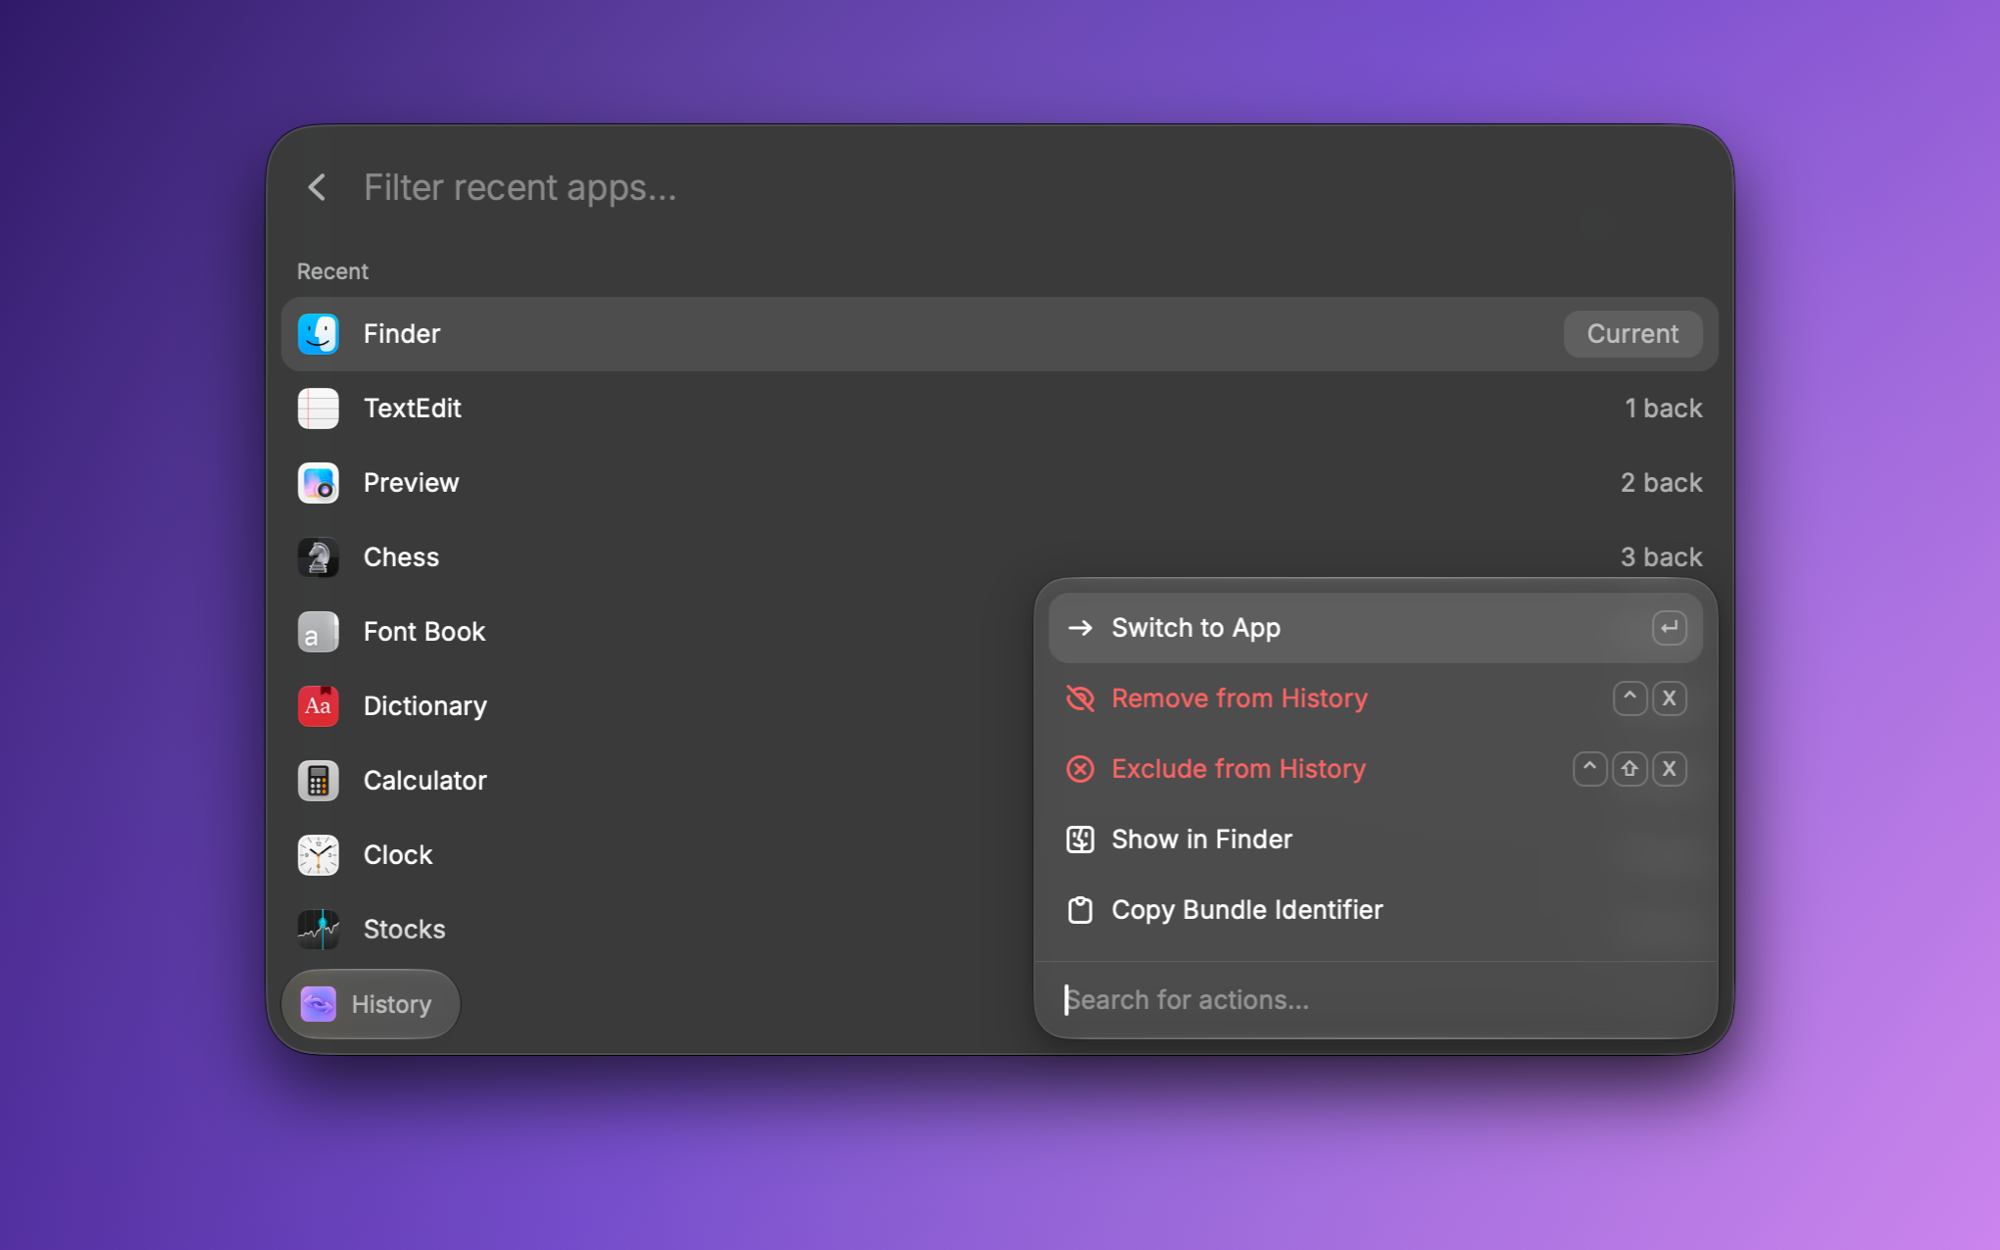
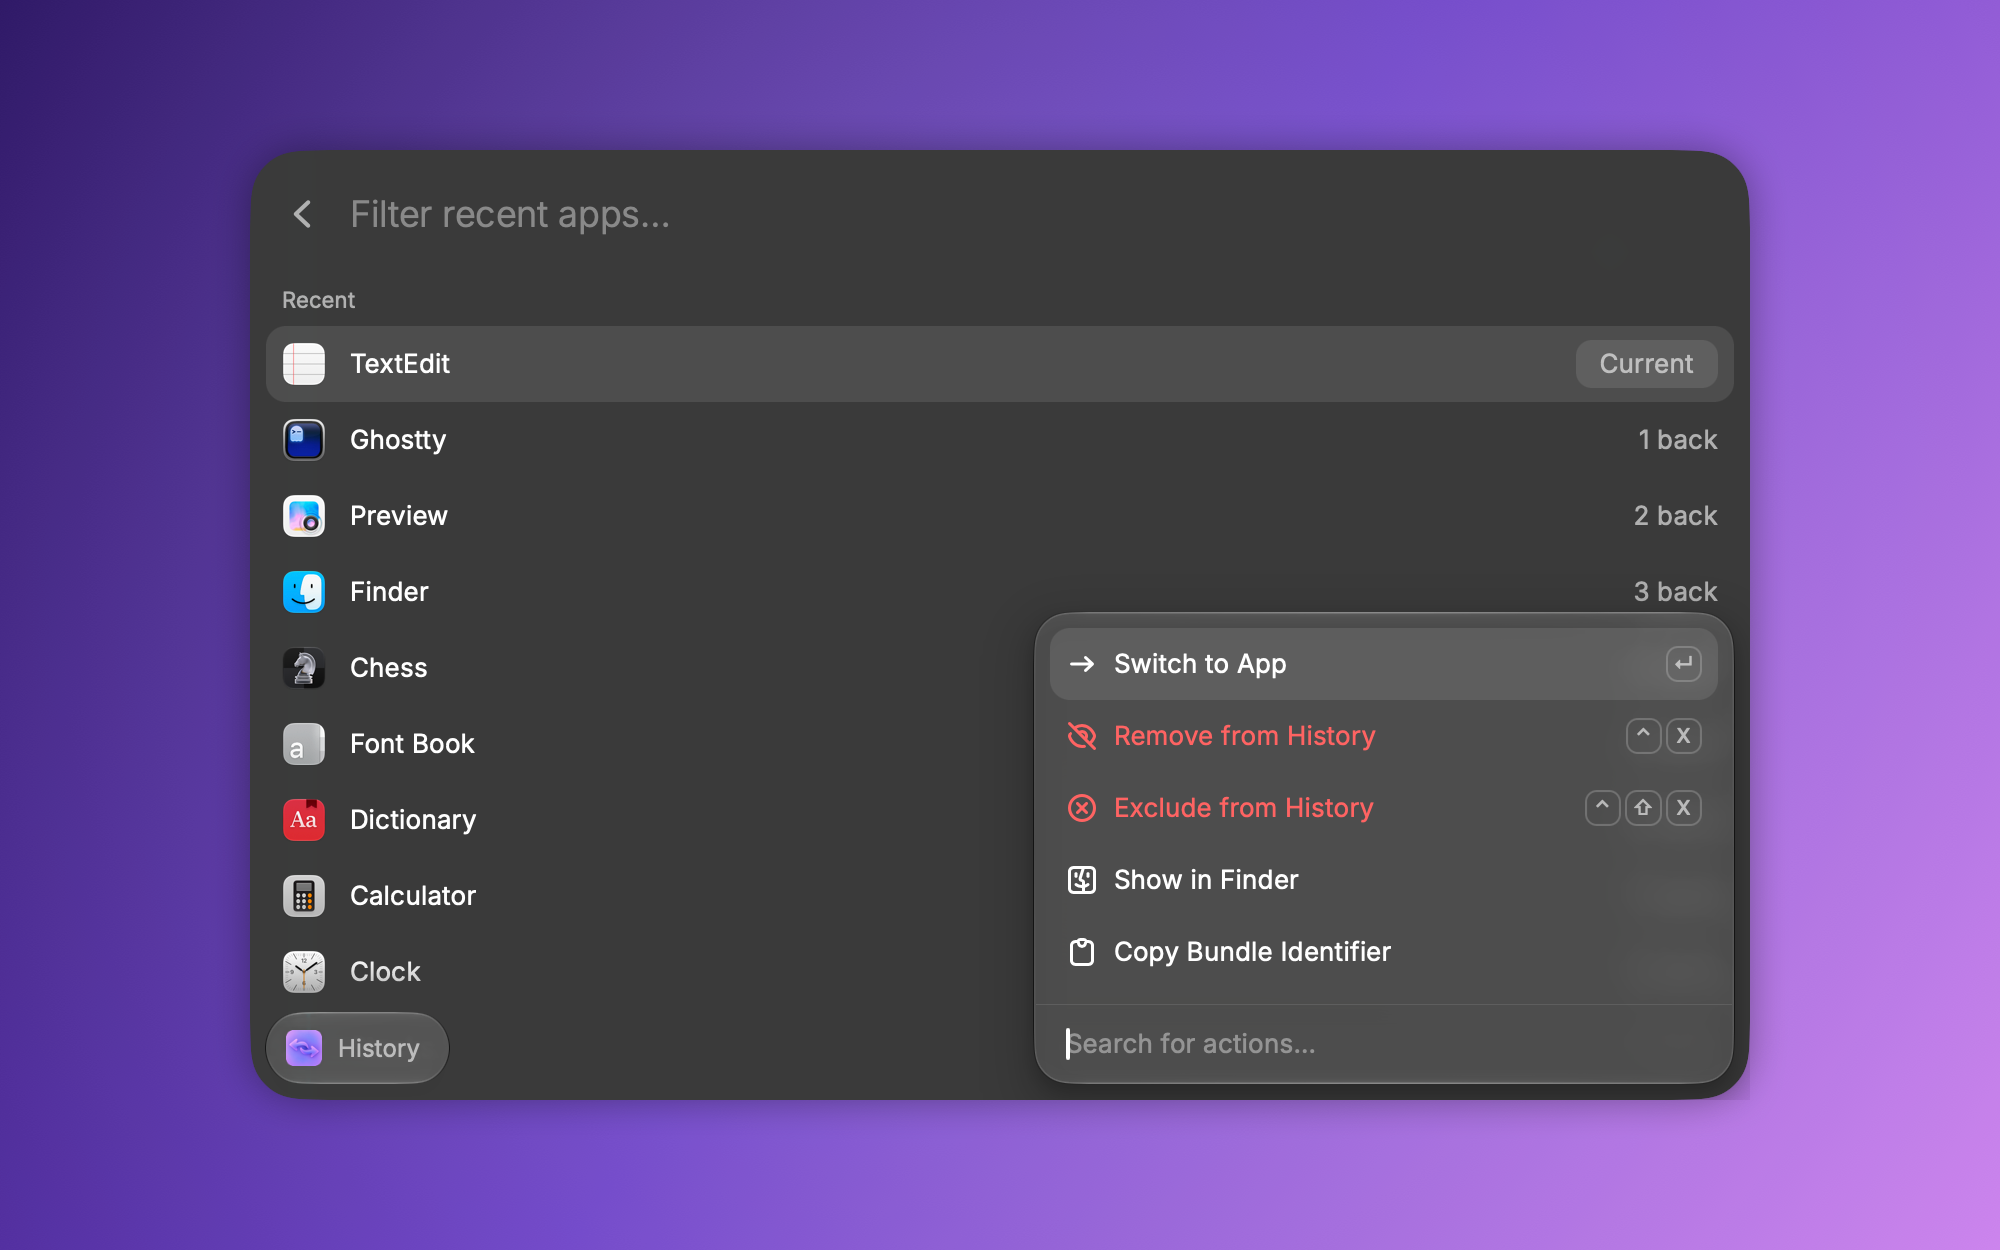
Fix Store CI screenshot padding; address review-bot findings
- Screenshots: capture without the system shadow, crop to visible pixels,
  center at 75% width with a symmetric drawn shadow. Passes Raycast CI's
  check_raycast_images.py (was failing on asymmetric padding).
- applyRemovals: drop ahead-markers for apps that quit; forget a removal
  when none are left, so a reused app isn't hidden for good. Tests added.
- Swift window-order fallback: frontmost app first even with no window.
- Excluded apps use the running app's current path.
- Source comments link to docs on GitHub (docs/ no longer ships).
- store-screenshots skill: run Raycast's image checker locally.

Changed region(s): [[0.124, 0.0936, 0.899, 0.9048]]

diff --git a/scripts/media/compose.swift b/scripts/media/compose.swift
@@ -1,12 +1,10 @@
-// Composites a window capture (PNG with shadow, from `screencapture -l`) onto a 2000x1250
+// Composites a window capture (PNG without shadow, from `screencapture -o -l`) onto a 2000x1250
 // gradient background, the size Raycast requires for Store screenshots.
 // Usage: swift compose.swift <window.png> <out.png>
 import AppKit
 
 let args = CommandLine.arguments
-guard args.count == 3, let window = NSImage(contentsOfFile: args[1]),
-  let rep = window.representations.first
-else {
+guard args.count == 3 else {
   FileHandle.standardError.write("usage: compose.swift <window.png> <out.png>\n".data(using: .utf8)!)
   exit(2)
 }
@@ -28,12 +26,36 @@ NSGradient(
 NSGradient(colors: [NSColor(white: 1, alpha: 0.18), NSColor(white: 1, alpha: 0)])!
   .draw(in: rect, relativeCenterPosition: NSPoint(x: 0, y: 0.1))
 
-// Window: native pixel size, scaled down only if it would not fit with a margin.
-let px = NSSize(width: rep.pixelsWide, height: rep.pixelsHigh)
-let scale = min(1, (canvas.width - 200) / px.width, (canvas.height - 100) / px.height)
-let size = NSSize(width: px.width * scale, height: px.height * scale)
-let origin = NSPoint(x: (canvas.width - size.width) / 2, y: (canvas.height - size.height) / 2)
-window.draw(in: NSRect(origin: origin, size: size), from: .zero, operation: .sourceOver, fraction: 1)
+// Window: 75% of the canvas width, centered, so padding is ~12.5% on every side. Raycast's CI
+// (scripts/check_raycast_images.py in raycast/extensions) requires 8-17% padding with top/bottom
+// and left/right within 4% of each other. The capture has no system shadow (`screencapture -o`);
+// draw a soft one here with no offset so it stays symmetric.
+// Crop to the visible pixels first: with the action panel open, the capture carries extra
+// transparent margin that would otherwise shrink and shift the window.
+guard let bitmap = NSBitmapImageRep(data: try! Data(contentsOf: URL(fileURLWithPath: args[1]))) else { exit(2) }
+var minX = bitmap.pixelsWide, minY = bitmap.pixelsHigh, maxX = -1, maxY = -1
+for y in 0..<bitmap.pixelsHigh {
+  for x in 0..<bitmap.pixelsWide where (bitmap.colorAt(x: x, y: y)?.alphaComponent ?? 0) > 0.5 {
+    minX = min(minX, x); maxX = max(maxX, x); minY = min(minY, y); maxY = max(maxY, y)
+  }
+}
+guard maxX >= minX, let cropped = bitmap.cgImage?.cropping(
+  to: CGRect(x: minX, y: minY, width: maxX - minX + 1, height: maxY - minY + 1))
+else { exit(2) }
+let windowImage = NSImage(cgImage: cropped, size: NSSize(width: cropped.width, height: cropped.height))
+
+let px = NSSize(width: cropped.width, height: cropped.height)
+let scale = min(canvas.width * 0.75 / px.width, canvas.height * 0.76 / px.height)
+let size = NSSize(width: (px.width * scale).rounded(), height: (px.height * scale).rounded())
+let origin = NSPoint(x: ((canvas.width - size.width) / 2).rounded(), y: ((canvas.height - size.height) / 2).rounded())
+NSGraphicsContext.saveGraphicsState()
+let shadow = NSShadow()
+shadow.shadowColor = NSColor(white: 0, alpha: 0.35)
+shadow.shadowBlurRadius = 40
+shadow.shadowOffset = .zero
+shadow.set()
+windowImage.draw(in: NSRect(origin: origin, size: size), from: .zero, operation: .sourceOver, fraction: 1)
+NSGraphicsContext.restoreGraphicsState()
 
 NSGraphicsContext.current = nil
 try! out.representation(using: .png, properties: [:])!.write(to: URL(fileURLWithPath: args[2]))

diff --git a/extension/swift/Sources/JumperNative/RecentApps.swift b/extension/swift/Sources/JumperNative/RecentApps.swift
@@ -11,7 +11,8 @@ struct RunningApp: Codable {
 ///
 /// Primary source: LaunchServices' private `_LSCopyApplicationArrayInFrontToBackOrder`, the same
 /// front-to-back order Cmd+Tab uses (no permissions needed). Fallback if the private symbol ever
-/// disappears: on-screen window z-order, which only sees the current Space. See ADR-001.
+/// disappears: on-screen window z-order, which only sees the current Space. See ADR-001 in
+/// https://github.com/mattherwig/jumper/blob/main/docs/DECISIONS.md.
 ///
 /// Kept free of Raycast macros so it compiles with plain `swiftc` for quick checks.
 func readRecentApps() -> [RunningApp] {
@@ -48,18 +49,24 @@ private func fromLaunchServices() -> [RunningApp]? {
   }
 }
 
+/// The frontmost app comes first even with no on-screen window: callers treat the first entry as current.
 private func fromWindowOrder() -> [RunningApp] {
+  let front = NSWorkspace.shared.frontmostApplication.flatMap(runningApp)
   let options: CGWindowListOption = [.optionOnScreenOnly, .excludeDesktopElements]
-  guard let windows = CGWindowListCopyWindowInfo(options, kCGNullWindowID) as? [[String: Any]] else { return [] }
-  return windows.compactMap { window in
+  let windows = CGWindowListCopyWindowInfo(options, kCGNullWindowID) as? [[String: Any]] ?? []
+  let ordered = windows.compactMap { window -> RunningApp? in
     guard
       window[kCGWindowLayer as String] as? Int == 0,
       let pid = window[kCGWindowOwnerPID as String] as? pid_t,
-      let app = NSRunningApplication(processIdentifier: pid),
-      app.activationPolicy == .regular,
-      let bundleId = app.bundleIdentifier,
-      let path = app.bundleURL?.path
+      let app = NSRunningApplication(processIdentifier: pid)
     else { return nil }
-    return RunningApp(bundleId: bundleId, name: app.localizedName ?? bundleId, path: path)
+    return runningApp(app)
   }
+  return (front.map { [$0] } ?? []) + ordered
+}
+
+private func runningApp(_ app: NSRunningApplication) -> RunningApp? {
+  guard app.activationPolicy == .regular, let bundleId = app.bundleIdentifier, let path = app.bundleURL?.path
+  else { return nil }
+  return RunningApp(bundleId: bundleId, name: app.localizedName ?? bundleId, path: path)
 }

diff --git a/extension/src/lib/history.ts b/extension/src/lib/history.ts
@@ -32,7 +32,8 @@ export function removeApp(apps: HistoryApp[], bundleId: string, removals: Remova
 /**
  * Hides removed apps and forgets removals that no longer apply. A removed app comes back once you use it again.
  * With no background process, that's read from the MRU order: the app is frontmost, or it moved ahead of an app
- * that was ahead of it when removed. Removals of apps that quit are forgotten too.
+ * that was ahead of it when removed. Removals of apps that quit are forgotten too, and so are removals whose
+ * ahead-apps have all quit (reuse can no longer be detected, so the app is shown rather than hidden for good).
  *
  * An app removed while frontmost stays pending (and visible, as the current app) until it's first seen behind
  * another app; the apps ahead of it at that point are recorded and the rule above applies from then on.
@@ -48,8 +49,10 @@ export function applyRemovals<T extends HistoryApp>(apps: T[], removals: Removal
       kept[bundleId] = i === 0 ? null : apps.slice(0, i).map((a) => a.bundleId);
       continue;
     }
-    if (i === 0 || ahead.some((a) => (index.get(a) ?? -1) > i)) continue;
-    kept[bundleId] = ahead;
+    // Markers for apps that quit can't show reuse any more; with none left, reuse is undetectable, so show it again.
+    const live = ahead.filter((a) => index.has(a));
+    if (i === 0 || live.length === 0 || live.some((a) => index.get(a)! > i)) continue;
+    kept[bundleId] = live;
   }
   return { apps: apps.filter((a, i) => i === 0 || !(a.bundleId in kept)), removals: kept };
 }

diff --git a/extension/src/history.tsx b/extension/src/history.tsx
@@ -10,17 +10,11 @@ import {
   Toast,
 } from "@raycast/api";
 import { usePromise } from "@raycast/utils";
-import {
-  excludeFromHistory,
-  includeInHistory,
-  loadExcludedApps,
-  loadHistoryState,
-  removeFromHistory,
-} from "./lib/load-history";
+import { excludeFromHistory, includeInHistory, loadHistoryState, removeFromHistory } from "./lib/load-history";
 import { activateApp, type RunningApp } from "./lib/macos";
 
 async function load() {
-  const [{ apps, currentHidden }, excluded] = await Promise.all([loadHistoryState(), loadExcludedApps()]);
+  const { apps, currentHidden, excluded } = await loadHistoryState();
   // Keep each app's real position for the "n back" label, then hide the current app if it's removed or excluded.
   const recent = apps.map((app, index) => ({ app, index })).filter(({ index }) => !(index === 0 && currentHidden));
   return { apps, recent, excluded };
@@ -104,7 +98,7 @@ function SwitchAction({ app }: { app: RunningApp }) {
       icon={Icon.ArrowRight}
       onAction={async () => {
         // Activate first: closing the window with Immediate unmounts this view and kills the
-        // command before open() runs (ADR-009).
+        // command before open() runs (ADR-009, https://github.com/mattherwig/jumper/blob/main/docs/DECISIONS.md).
         await activateApp(app);
         await closeMainWindow({ popToRootType: PopToRootType.Immediate });
       }}

diff --git a/extension/src/lib/macos.ts b/extension/src/lib/macos.ts
@@ -12,7 +12,7 @@ const IGNORED = new Set(["com.raycast.macos"]);
 
 /**
  * Regular (Dock) apps, most recently used first, across all Spaces.
- * Implemented natively in `swift/Sources/JumperNative/RecentApps.swift` (~7ms per call; ADR-001, ADR-008).
+ * Implemented natively in `swift/Sources/JumperNative/RecentApps.swift` (~7ms per call; ADR-001, ADR-008 in https://github.com/mattherwig/jumper/blob/main/docs/DECISIONS.md).
  */
 export async function getRecentApps(): Promise<RunningApp[]> {
   const apps: RunningApp[] = await recentApps();
@@ -22,7 +22,7 @@ export async function getRecentApps(): Promise<RunningApp[]> {
 /**
  * Bring an app to the front by asking Raycast (already running, allowed to activate apps) to open its bundle.
  * Avoids spawning `open -b` (~60ms). `NSRunningApplication.activate` from a background process is ignored on
- * macOS 14+, see ADR-002. Like a Dock click, it also unhides the app.
+ * macOS 14+, see ADR-002 in https://github.com/mattherwig/jumper/blob/main/docs/DECISIONS.md. Like a Dock click, it also unhides the app.
  */
 export async function activateApp(app: RunningApp): Promise<void> {
   await open(app.path);

diff --git a/extension/src/lib/load-history.ts b/extension/src/lib/load-history.ts
@@ -18,7 +18,11 @@ async function write(key: string, value: unknown): Promise<void> {
  * Running apps, most recent first, without apps removed from or excluded from history. The frontmost app is always
  * first; `currentHidden` says whether it's itself removed or excluded (navigation keeps it, the list hides it).
  */
-export async function loadHistoryState(): Promise<{ apps: RunningApp[]; currentHidden: boolean }> {
+export async function loadHistoryState(): Promise<{
+  apps: RunningApp[];
+  currentHidden: boolean;
+  excluded: RunningApp[];
+}> {
   const [recent, removals, excluded] = await Promise.all([
     getRecentApps(),
     read<Removals>(REMOVALS_KEY, {}),
@@ -31,6 +35,8 @@ export async function loadHistoryState(): Promise<{ apps: RunningApp[]; currentH
   return {
     apps: excludeApps(result.apps, excludedIds),
     currentHidden: current !== undefined && (current in result.removals || excludedIds.has(current)),
+    // Saved paths go stale if an app is moved or reinstalled; prefer the running copy's path.
+    excluded: excluded.map((app) => recent.find((r) => r.bundleId === app.bundleId) ?? app),
   };
 }
 

diff --git a/extension/test/history.test.ts b/extension/test/history.test.ts
@@ -37,6 +37,21 @@ test("removal is forgotten when the app quits", () => {
   assert.deepEqual(applyRemovals([notes], removals), { apps: [notes], removals: {} });
 });
 
+test("removal is forgotten when every app that was ahead of it quits, since reuse can't be seen any more", () => {
+  const removals = removeApp([notes, safari, finder], "com.apple.Safari", {});
+  // Notes quit; Safari was used and then left for Finder. Nothing left to compare against, so Safari shows.
+  assert.deepEqual(applyRemovals([finder, safari], removals), { apps: [finder, safari], removals: {} });
+});
+
+test("markers for apps that quit are dropped, the rest still detect reuse", () => {
+  const removals = removeApp([notes, finder, safari], "com.apple.Safari", {});
+  // Notes quit, Finder still ahead: still hidden, marker list pruned.
+  assert.deepEqual(applyRemovals([finder, safari], removals), {
+    apps: [finder],
+    removals: { "com.apple.Safari": ["com.apple.finder"] },
+  });
+});
+
 test("removing an app not in history is a no-op", () => {
   assert.deepEqual(removeApp([notes], "com.apple.Safari", {}), {});
 });

diff --git a/extension/src/lib/run-navigation.ts b/extension/src/lib/run-navigation.ts
@@ -12,7 +12,7 @@ const MESSAGES = {
   "no-forward": "No later app in history",
 } as const;
 
-/** Step timings, logged only in development (`npm run dev`). Grep the dev log for "PERF". See docs/PERFORMANCE.md. */
+/** Step timings, logged only in development (`npm run dev`). Grep the dev log for "PERF". See https://github.com/mattherwig/jumper/blob/main/docs/PERFORMANCE.md. */
 function timer() {
   const t0 = performance.now();
   if (environment.isDevelopment) console.log(`PERF start ${Date.now()}`);

diff --git a/extension/swift/Package.swift b/extension/swift/Package.swift
@@ -4,7 +4,7 @@ import PackageDescription
 
 // Native helper for the Raycast extension. Built by `ray build` via raycast/extensions-swift-tools,
 // which generates the TypeScript bindings imported as `swift:../../swift` (see src/lib/macos.ts).
-// Requires Xcode 16.3+. See docs/DECISIONS.md ADR-008.
+// Requires Xcode 16.3+. See ADR-008 in https://github.com/mattherwig/jumper/blob/main/docs/DECISIONS.md.
 let package = Package(
   name: "JumperNative",
   platforms: [.macOS(.v13)],

diff --git a/scripts/media/store_media.py b/scripts/media/store_media.py
@@ -196,7 +196,7 @@ class DemoApps:
 def capture(path: Path) -> None:
     wid = raycast_window()[0]  # type: ignore[index]
     raw = TMP / "window.png"
-    subprocess.run(["screencapture", "-x", "-l", str(wid), str(raw)], check=True)
+    subprocess.run(["screencapture", "-x", "-o", "-l", str(wid), str(raw)], check=True)
     subprocess.run(["swift", str(HERE / "compose.swift"), str(raw), str(path)], check=True)
     print(f"wrote {path.relative_to(ROOT)}")
 

diff --git a/.claude/skills/store-screenshots/SKILL.md b/.claude/skills/store-screenshots/SKILL.md
@@ -40,6 +40,13 @@ Read each PNG and check:
 - No personal data: only the demo apps in the list (if the screen is taller and a user app appears at the bottom, add another neutral app to the start of `DEMO_APPS`), no names. `jumper-4.png` lists matching files from `~/Projects/jumper` below the commands; the owner accepted that.
 - Chess shows in Recent in `jumper-1.png` (proves the previous run's exclusion was undone). If Chess stays excluded after a failed run: open History, find it in Excluded, Include in History.
 - Sizes: `sips -g pixelWidth -g pixelHeight extension/metadata/*.png` → 2000×1250.
+- **Raycast CI's image check passes** (it failed the first submission). Their CI requires ~12.5% padding on every side (8–17%), top/bottom and left/right within 4%, and the same background on every image. Run their checker locally:
+  ```bash
+  V="$TMPDIR/raycast-img-check"; python3 -m venv "$V" && "$V/bin/pip" -q install numpy pillow
+  for f in check_raycast_images.py check_metadata_images.py; do gh api "repos/raycast/extensions/contents/scripts/$f" --jq .content | base64 -d > "$V/$f"; done
+  "$V/bin/python" "$V/check_raycast_images.py" extension/metadata/*.png
+  ```
+  `compose.swift` handles this: shadowless capture (`screencapture -o`), cropped to visible pixels (the ⌘K panel adds transparent margin), 75% of the width, centered, with a symmetric drawn shadow.
 
 Then `cd extension && npm run check`, commit `extension/metadata/`.
 
